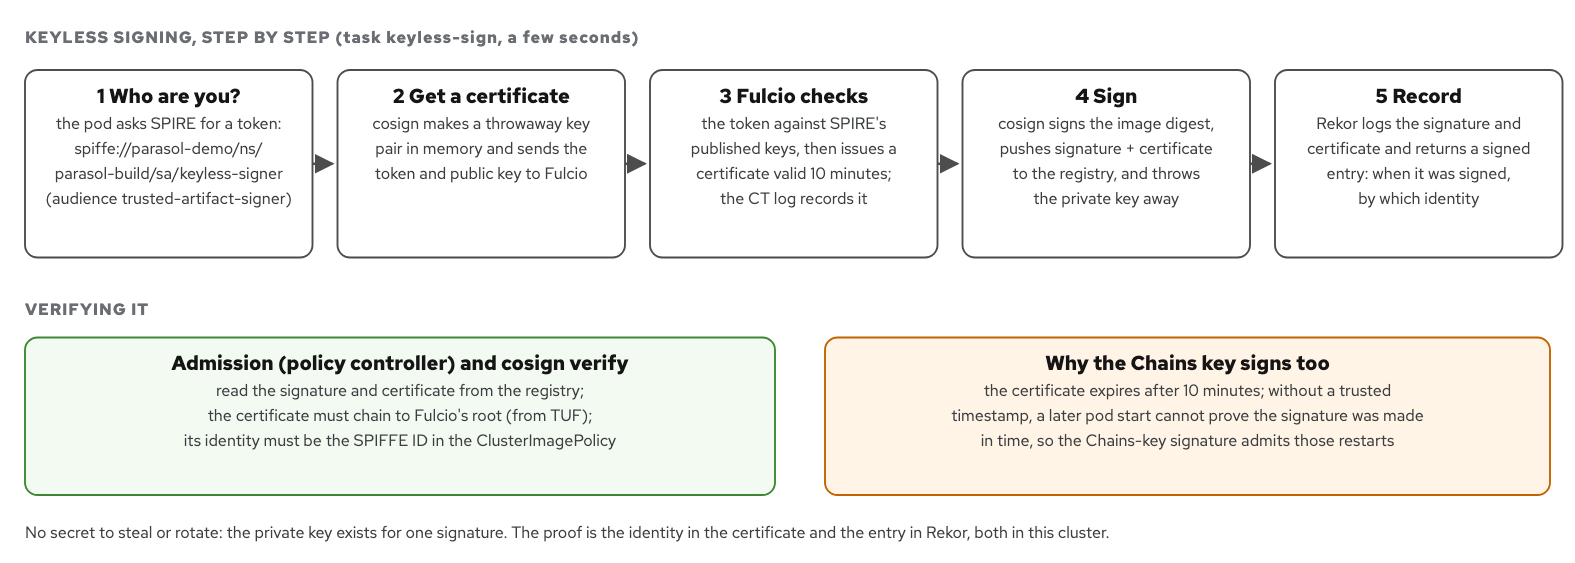
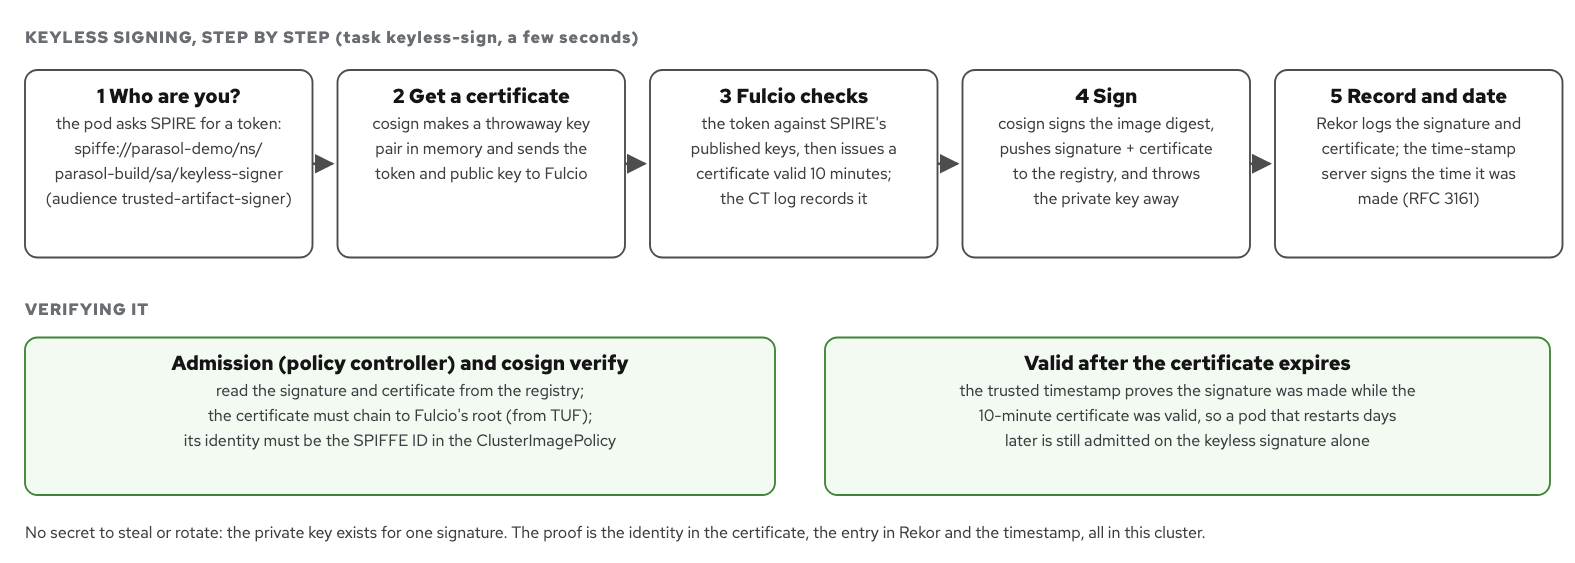
feat(supply-chain): portal admission accepts the timestamped keyless signature only

diff --git a/showroom/diagrams/s5-release-flow.html b/showroom/diagrams/s5-release-flow.html
@@ -20,4 +20,4 @@ svg text{font-family:inherit}
 <marker id="n" viewBox="0 0 10 10" refX="9" refY="5" markerWidth="8" markerHeight="8" orient="auto"><path d="M0,0 L10,5 L0,10 z" fill="#c9190b"/></marker>
 <marker id="y" viewBox="0 0 10 10" refX="9" refY="5" markerWidth="8" markerHeight="8" orient="auto"><path d="M0,0 L10,5 L0,10 z" fill="#3e8635"/></marker>
 </defs>
-<rect width="1400" height="580" fill="#fff"/><text class="lane" x="20" y="34" text-anchor="start">RELEASE PIPELINE  parasol-portal-secure-build  (OpenShift Pipelines, project parasol-build)</text><rect class="ext" x="20" y="170" width="130" height="120" rx="10"/><text class="t" x="85.0" y="196" text-anchor="middle">Git</text><text class="s" x="85.0" y="217" text-anchor="middle">portal source</text><text class="s" x="85.0" y="238" text-anchor="middle">system prompt</text><text class="s" x="85.0" y="259" text-anchor="middle">golden set</text><rect class="box" x="180" y="170" width="140" height="120" rx="10"/><text class="t" x="250.0" y="196" text-anchor="middle">Build</text><text class="s" x="250.0" y="217" text-anchor="middle">buildah, in the</text><text class="s" x="250.0" y="238" text-anchor="middle">cluster; image</text><text class="s" x="250.0" y="259" text-anchor="middle">by digest</text><rect class="box" x="355" y="60" width="250" height="92" rx="10"/><text class="t" x="480.0" y="86" text-anchor="middle">Scan + SBOM</text><text class="s" x="480.0" y="107" text-anchor="middle">Trivy: HIGH / CRITICAL</text><text class="s" x="480.0" y="128" text-anchor="middle">CycloneDX SBOM, attested</text><rect class="ctl" x="355" y="172" width="250" height="116" rx="10"/><text class="t" x="480.0" y="198" text-anchor="middle">Evaluation gate</text><text class="c" x="480.0" y="219" text-anchor="middle">MLflow GenAI, golden set</text><text class="s" x="480.0" y="240" text-anchor="middle">with the platform >= 0.95, and</text><text class="s" x="480.0" y="261" text-anchor="middle">the model alone loses no case</text><rect class="box" x="355" y="308" width="250" height="100" rx="10"/><text class="t" x="480.0" y="334" text-anchor="middle">Signed twice</text><text class="s" x="480.0" y="355" text-anchor="middle">Tekton Chains, its own key (outside)</text><text class="s" x="480.0" y="376" text-anchor="middle">keyless: Trusted Artifact Signer,</text><text class="s" x="480.0" y="397" text-anchor="middle">pipeline's SPIFFE identity, + SBOM</text><rect class="box" x="640" y="308" width="160" height="100" rx="10"/><text class="t" x="720.0" y="334" text-anchor="middle">Conforma</text><text class="s" x="720.0" y="355" text-anchor="middle">Chains signature,</text><text class="s" x="720.0" y="376" text-anchor="middle">SLSA provenance</text><text class="s" x="720.0" y="397" text-anchor="middle">from this pipeline</text><rect class="box" x="640" y="172" width="160" height="116" rx="10"/><text class="t" x="720.0" y="198" text-anchor="middle">Agent version</text><text class="s" x="720.0" y="219" text-anchor="middle">MLflow LoggedModel</text><text class="s" x="720.0" y="240" text-anchor="middle">parasol-claims-agent</text><text class="s" x="720.0" y="261" text-anchor="middle">1.x.0, every run</text><rect class="ctl" x="835" y="172" width="175" height="116" rx="10"/><text class="t" x="922.5" y="198" text-anchor="middle">Promote</text><text class="s" x="922.5" y="219" text-anchor="middle">digest + released</text><text class="s" x="922.5" y="240" text-anchor="middle">prompt pinned on</text><text class="c" x="922.5" y="261" text-anchor="middle">Argo CD env-secured</text><text class="s" x="922.5" y="282" text-anchor="middle">(no Git write)</text><rect class="box" x="1045" y="172" width="140" height="116" rx="10"/><text class="t" x="1115.0" y="198" text-anchor="middle">Argo CD</text><text class="s" x="1115.0" y="219" text-anchor="middle">syncs the</text><text class="s" x="1115.0" y="240" text-anchor="middle">pinned digest to</text><text class="s" x="1115.0" y="261" text-anchor="middle">parasol-secured</text><rect class="ctl" x="1220" y="172" width="160" height="116" rx="10"/><text class="t" x="1300.0" y="198" text-anchor="middle">Admission</text><text class="c" x="1300.0" y="219" text-anchor="middle">policy controller</text><text class="s" x="1300.0" y="240" text-anchor="middle">signature by the</text><text class="s" x="1300.0" y="261" text-anchor="middle">key or keyless</text><rect class="run" x="1220" y="330" width="160" height="80" rx="10"/><text class="t" x="1300.0" y="356" text-anchor="middle">Portal runs</text><text class="s" x="1300.0" y="377" text-anchor="middle">the exact digest</text><path class="arr" d="M150,230 L176,230"/><path class="arr" d="M320,215 L351,112"/><path class="arr" d="M320,230 L351,230"/><path class="arr" d="M320,245 L351,355"/><path class="arr" d="M605,358 L636,358"/><path class="arr" d="M605,230 L636,230"/><path class="arr" d="M800,230 L831,230"/><path class="arr" d="M720,308 L720,300 L900,300 L900,292"/><path class="arr" d="M605,106 L922,106 L922,168"/><path class="arr" d="M1010,230 L1041,230"/><path class="arr" d="M1185,230 L1216,230"/><path class="yes" d="M1300,288 L1300,326"/><rect class="bad" x="355" y="440" width="250" height="80" rx="10"/><text class="t" x="480.0" y="466" text-anchor="middle">Gate failed</text><text class="r" x="480.0" y="487" text-anchor="middle">promote skipped:</text><text class="s" x="480.0" y="508" text-anchor="middle">the old release keeps running</text><path class="no" d="M355,262 L338,262 L338,480 L351,480"/><rect class="bad" x="1020" y="440" width="360" height="80" rx="10"/><text class="t" x="1200.0" y="466" text-anchor="middle">Unsigned or tampered image</text><text class="r" x="1200.0" y="487" text-anchor="middle">refused at admission,</text><text class="s" x="1200.0" y="508" text-anchor="middle">whoever deploys it (kubectl, Argo, pipeline)</text><path class="no" d="M1240,288 C1180,360 1180,400 1200,436"/><text class="s" x="20" y="560" text-anchor="start">Every step is recorded: PipelineRun results, the MLflow run and agent version, the Argo CD annotations, the signatures next to the image.</text></svg></body></html>
+<rect width="1400" height="580" fill="#fff"/><text class="lane" x="20" y="34" text-anchor="start">RELEASE PIPELINE  parasol-portal-secure-build  (OpenShift Pipelines, project parasol-build)</text><rect class="ext" x="20" y="170" width="130" height="120" rx="10"/><text class="t" x="85.0" y="196" text-anchor="middle">Git</text><text class="s" x="85.0" y="217" text-anchor="middle">portal source</text><text class="s" x="85.0" y="238" text-anchor="middle">system prompt</text><text class="s" x="85.0" y="259" text-anchor="middle">golden set</text><rect class="box" x="180" y="170" width="140" height="120" rx="10"/><text class="t" x="250.0" y="196" text-anchor="middle">Build</text><text class="s" x="250.0" y="217" text-anchor="middle">buildah, in the</text><text class="s" x="250.0" y="238" text-anchor="middle">cluster; image</text><text class="s" x="250.0" y="259" text-anchor="middle">by digest</text><rect class="box" x="355" y="60" width="250" height="92" rx="10"/><text class="t" x="480.0" y="86" text-anchor="middle">Scan + SBOM</text><text class="s" x="480.0" y="107" text-anchor="middle">Trivy: HIGH / CRITICAL</text><text class="s" x="480.0" y="128" text-anchor="middle">CycloneDX SBOM, attested</text><rect class="ctl" x="355" y="172" width="250" height="116" rx="10"/><text class="t" x="480.0" y="198" text-anchor="middle">Evaluation gate</text><text class="c" x="480.0" y="219" text-anchor="middle">MLflow GenAI, golden set</text><text class="s" x="480.0" y="240" text-anchor="middle">with the platform >= 0.95, and</text><text class="s" x="480.0" y="261" text-anchor="middle">the model alone loses no case</text><rect class="box" x="355" y="308" width="250" height="100" rx="10"/><text class="t" x="480.0" y="334" text-anchor="middle">Signed twice</text><text class="s" x="480.0" y="355" text-anchor="middle">Tekton Chains, its own key (outside)</text><text class="s" x="480.0" y="376" text-anchor="middle">keyless: Trusted Artifact Signer,</text><text class="s" x="480.0" y="397" text-anchor="middle">pipeline's SPIFFE identity, + SBOM</text><rect class="box" x="640" y="308" width="160" height="100" rx="10"/><text class="t" x="720.0" y="334" text-anchor="middle">Conforma</text><text class="s" x="720.0" y="355" text-anchor="middle">Chains signature,</text><text class="s" x="720.0" y="376" text-anchor="middle">SLSA provenance</text><text class="s" x="720.0" y="397" text-anchor="middle">from this pipeline</text><rect class="box" x="640" y="172" width="160" height="116" rx="10"/><text class="t" x="720.0" y="198" text-anchor="middle">Agent version</text><text class="s" x="720.0" y="219" text-anchor="middle">MLflow LoggedModel</text><text class="s" x="720.0" y="240" text-anchor="middle">parasol-claims-agent</text><text class="s" x="720.0" y="261" text-anchor="middle">1.x.0, every run</text><rect class="ctl" x="835" y="172" width="175" height="116" rx="10"/><text class="t" x="922.5" y="198" text-anchor="middle">Promote</text><text class="s" x="922.5" y="219" text-anchor="middle">digest + released</text><text class="s" x="922.5" y="240" text-anchor="middle">prompt pinned on</text><text class="c" x="922.5" y="261" text-anchor="middle">Argo CD env-secured</text><text class="s" x="922.5" y="282" text-anchor="middle">(no Git write)</text><rect class="box" x="1045" y="172" width="140" height="116" rx="10"/><text class="t" x="1115.0" y="198" text-anchor="middle">Argo CD</text><text class="s" x="1115.0" y="219" text-anchor="middle">syncs the</text><text class="s" x="1115.0" y="240" text-anchor="middle">pinned digest to</text><text class="s" x="1115.0" y="261" text-anchor="middle">parasol-secured</text><rect class="ctl" x="1220" y="172" width="160" height="116" rx="10"/><text class="t" x="1300.0" y="198" text-anchor="middle">Admission</text><text class="c" x="1300.0" y="219" text-anchor="middle">policy controller</text><text class="s" x="1300.0" y="240" text-anchor="middle">keyless signature</text><text class="s" x="1300.0" y="261" text-anchor="middle">+ trusted timestamp</text><rect class="run" x="1220" y="330" width="160" height="80" rx="10"/><text class="t" x="1300.0" y="356" text-anchor="middle">Portal runs</text><text class="s" x="1300.0" y="377" text-anchor="middle">the exact digest</text><path class="arr" d="M150,230 L176,230"/><path class="arr" d="M320,215 L351,112"/><path class="arr" d="M320,230 L351,230"/><path class="arr" d="M320,245 L351,355"/><path class="arr" d="M605,358 L636,358"/><path class="arr" d="M605,230 L636,230"/><path class="arr" d="M800,230 L831,230"/><path class="arr" d="M720,308 L720,300 L900,300 L900,292"/><path class="arr" d="M605,106 L922,106 L922,168"/><path class="arr" d="M1010,230 L1041,230"/><path class="arr" d="M1185,230 L1216,230"/><path class="yes" d="M1300,288 L1300,326"/><rect class="bad" x="355" y="440" width="250" height="80" rx="10"/><text class="t" x="480.0" y="466" text-anchor="middle">Gate failed</text><text class="r" x="480.0" y="487" text-anchor="middle">promote skipped:</text><text class="s" x="480.0" y="508" text-anchor="middle">the old release keeps running</text><path class="no" d="M355,262 L338,262 L338,480 L351,480"/><rect class="bad" x="1020" y="440" width="360" height="80" rx="10"/><text class="t" x="1200.0" y="466" text-anchor="middle">Unsigned or tampered image</text><text class="r" x="1200.0" y="487" text-anchor="middle">refused at admission,</text><text class="s" x="1200.0" y="508" text-anchor="middle">whoever deploys it (kubectl, Argo, pipeline)</text><path class="no" d="M1240,288 C1180,360 1180,400 1200,436"/><text class="s" x="20" y="560" text-anchor="start">Every step is recorded: PipelineRun results, the MLflow run and agent version, the Argo CD annotations, the signatures next to the image.</text></svg></body></html>

diff --git a/showroom/diagrams/s5-signing-components.html b/showroom/diagrams/s5-signing-components.html
@@ -20,4 +20,4 @@ svg text{font-family:inherit}
 <marker id="n" viewBox="0 0 10 10" refX="9" refY="5" markerWidth="8" markerHeight="8" orient="auto"><path d="M0,0 L10,5 L0,10 z" fill="#c9190b"/></marker>
 <marker id="y" viewBox="0 0 10 10" refX="9" refY="5" markerWidth="8" markerHeight="8" orient="auto"><path d="M0,0 L10,5 L0,10 z" fill="#3e8635"/></marker>
 </defs>
-<rect width="1240" height="620" fill="#fff"/><text class="lane" x="20" y="34" text-anchor="start">WHO SIGNS</text><text class="lane" x="450" y="34" text-anchor="start">TRUSTED ARTIFACT SIGNER  (runs in this cluster)</text><text class="lane" x="900" y="34" text-anchor="start">WHO VERIFIES</text><rect class="ctl" x="44" y="52" width="356" height="126" rx="10"/><text class="t" x="222.0" y="78" text-anchor="middle">Tekton Chains</text><text class="c" x="222.0" y="99" text-anchor="middle">controller outside the pipeline (openshift-pipelines)</text><text class="s" x="222.0" y="119" text-anchor="middle">signs every image a TaskRun built,</text><text class="s" x="222.0" y="139" text-anchor="middle">and attests its SLSA provenance;</text><text class="s" x="222.0" y="159" text-anchor="middle">only Chains can read its key</text><rect class="box" x="44" y="214" width="356" height="106" rx="10"/><text class="t" x="222.0" y="240" text-anchor="middle">keyless-sign task</text><text class="s" x="222.0" y="261" text-anchor="middle">the pipeline's own identity, no stored key:</text><text class="s" x="222.0" y="281" text-anchor="middle">signs the image and its SBOM</text><text class="s" x="222.0" y="301" text-anchor="middle">(service account keyless-signer)</text><rect class="box" x="44" y="356" width="356" height="106" rx="10"/><text class="t" x="222.0" y="382" text-anchor="middle">SPIRE</text><text class="s" x="222.0" y="403" text-anchor="middle">Zero Trust Workload Identity Manager:</text><text class="s" x="222.0" y="423" text-anchor="middle">gives the pod a short-lived identity token</text><text class="s" x="222.0" y="443" text-anchor="middle">spiffe://parasol-demo/ns/parasol-build/sa/keyless-signer</text><rect class="box" x="450" y="52" width="400" height="86" rx="10"/><text class="t" x="650.0" y="78" text-anchor="middle">Fulcio</text><text class="s" x="650.0" y="99" text-anchor="middle">certificate authority: identity token in,</text><text class="s" x="650.0" y="119" text-anchor="middle">certificate valid 10 minutes out</text><rect class="box" x="450" y="268" width="400" height="86" rx="10"/><text class="t" x="650.0" y="294" text-anchor="middle">Rekor</text><text class="s" x="650.0" y="315" text-anchor="middle">transparency log: every keyless signature,</text><text class="s" x="650.0" y="335" text-anchor="middle">append-only, tamper-evident</text><rect class="box" x="450" y="160" width="400" height="86" rx="10"/><text class="t" x="650.0" y="186" text-anchor="middle">CT log</text><text class="s" x="650.0" y="207" text-anchor="middle">certificate transparency: every certificate</text><text class="s" x="650.0" y="227" text-anchor="middle">Fulcio issued</text><rect class="box" x="450" y="376" width="400" height="86" rx="10"/><text class="t" x="650.0" y="402" text-anchor="middle">TUF</text><text class="s" x="650.0" y="423" text-anchor="middle">hands out the trust roots (Fulcio, Rekor,</text><text class="s" x="650.0" y="443" text-anchor="middle">CT log keys) to signers and verifiers</text><rect class="ctl" x="900" y="52" width="320" height="146" rx="10"/><text class="t" x="1060.0" y="78" text-anchor="middle">Conforma</text><text class="c" x="1060.0" y="99" text-anchor="middle">task verify-enterprise-contract,</text><text class="s" x="1060.0" y="119" text-anchor="middle">before promote: Chains signature,</text><text class="s" x="1060.0" y="139" text-anchor="middle">provenance from this pipeline,</text><text class="s" x="1060.0" y="159" text-anchor="middle">image by digest; else no promote</text><rect class="ctl" x="900" y="236" width="320" height="146" rx="10"/><text class="t" x="1060.0" y="262" text-anchor="middle">Policy controller</text><text class="c" x="1060.0" y="283" text-anchor="middle">admission webhook, every pod in</text><text class="s" x="1060.0" y="303" text-anchor="middle">parasol-secured: keyless identity</text><text class="s" x="1060.0" y="323" text-anchor="middle">or Chains key (ClusterImagePolicy);</text><text class="s" x="1060.0" y="343" text-anchor="middle">else the pod is refused</text><rect class="run" x="20" y="506" width="1200" height="70" rx="10"/><text class="t" x="620.0" y="532" text-anchor="middle">Image registry</text><text class="s" x="620.0" y="553" text-anchor="middle">the image by digest, with its signatures (.sig) and attestations (.att: SLSA provenance, SBOM) stored next to it</text><path class="arr" d="M222,356 L222,324"/><text class="s" x="234" y="344" text-anchor="start">identity</text><path class="arr" d="M400,250 L446,104"/><path class="arr" d="M400,292 L446,308"/><path class="arr" d="M650,138 L650,156"/><path class="arr" d="M850,419 C880,419 880,330 896,320"/><path class="arr" d="M850,405 C890,380 870,160 896,140"/><path class="arr" d="M44,115 L28,115 L28,502"/><path class="arr" d="M400,306 L425,306 L425,502"/><path class="arr" d="M1060,502 L1060,386"/><path class="arr" d="M1180,502 L1180,202"/><text class="s" x="20" y="606" text-anchor="start">No stored key in the pipeline: Chains holds the only build key, and keyless signing uses a 10-minute certificate. Nothing calls the public Sigstore services.</text></svg></body></html>
+<rect width="1240" height="620" fill="#fff"/><text class="lane" x="20" y="34" text-anchor="start">WHO SIGNS</text><text class="lane" x="450" y="34" text-anchor="start">TRUSTED ARTIFACT SIGNER  (runs in this cluster)</text><text class="lane" x="900" y="34" text-anchor="start">WHO VERIFIES</text><rect class="ctl" x="44" y="52" width="356" height="126" rx="10"/><text class="t" x="222.0" y="78" text-anchor="middle">Tekton Chains</text><text class="c" x="222.0" y="99" text-anchor="middle">controller outside the pipeline (openshift-pipelines)</text><text class="s" x="222.0" y="119" text-anchor="middle">signs every image a TaskRun built,</text><text class="s" x="222.0" y="139" text-anchor="middle">and attests its SLSA provenance;</text><text class="s" x="222.0" y="159" text-anchor="middle">only Chains can read its key</text><rect class="box" x="44" y="214" width="356" height="106" rx="10"/><text class="t" x="222.0" y="240" text-anchor="middle">keyless-sign task</text><text class="s" x="222.0" y="261" text-anchor="middle">the pipeline's own identity, no stored key:</text><text class="s" x="222.0" y="281" text-anchor="middle">signs the image and its SBOM</text><text class="s" x="222.0" y="301" text-anchor="middle">(service account keyless-signer)</text><rect class="box" x="44" y="356" width="356" height="106" rx="10"/><text class="t" x="222.0" y="382" text-anchor="middle">SPIRE</text><text class="s" x="222.0" y="403" text-anchor="middle">Zero Trust Workload Identity Manager:</text><text class="s" x="222.0" y="423" text-anchor="middle">gives the pod a short-lived identity token</text><text class="s" x="222.0" y="443" text-anchor="middle">spiffe://parasol-demo/ns/parasol-build/sa/keyless-signer</text><rect class="box" x="450" y="52" width="400" height="86" rx="10"/><text class="t" x="650.0" y="78" text-anchor="middle">Fulcio</text><text class="s" x="650.0" y="99" text-anchor="middle">certificate authority: identity token in,</text><text class="s" x="650.0" y="119" text-anchor="middle">certificate valid 10 minutes out</text><rect class="box" x="450" y="268" width="400" height="86" rx="10"/><text class="t" x="650.0" y="294" text-anchor="middle">Rekor</text><text class="s" x="650.0" y="315" text-anchor="middle">transparency log: every keyless signature,</text><text class="s" x="650.0" y="335" text-anchor="middle">append-only, tamper-evident</text><rect class="box" x="450" y="160" width="400" height="86" rx="10"/><text class="t" x="650.0" y="186" text-anchor="middle">CT log</text><text class="s" x="650.0" y="207" text-anchor="middle">certificate transparency: every certificate</text><text class="s" x="650.0" y="227" text-anchor="middle">Fulcio issued</text><rect class="box" x="450" y="376" width="196" height="86" rx="10"/><text class="t" x="548.0" y="402" text-anchor="middle">Time-stamp</text><text class="s" x="548.0" y="423" text-anchor="middle">dates each keyless</text><text class="s" x="548.0" y="443" text-anchor="middle">signature (RFC 3161)</text><rect class="box" x="654" y="376" width="196" height="86" rx="10"/><text class="t" x="752.0" y="402" text-anchor="middle">TUF</text><text class="s" x="752.0" y="423" text-anchor="middle">trust roots for</text><text class="s" x="752.0" y="443" text-anchor="middle">signers and verifiers</text><rect class="ctl" x="900" y="52" width="320" height="146" rx="10"/><text class="t" x="1060.0" y="78" text-anchor="middle">Conforma</text><text class="c" x="1060.0" y="99" text-anchor="middle">task verify-enterprise-contract,</text><text class="s" x="1060.0" y="119" text-anchor="middle">before promote: Chains signature,</text><text class="s" x="1060.0" y="139" text-anchor="middle">provenance from this pipeline,</text><text class="s" x="1060.0" y="159" text-anchor="middle">image by digest; else no promote</text><rect class="ctl" x="900" y="236" width="320" height="146" rx="10"/><text class="t" x="1060.0" y="262" text-anchor="middle">Policy controller</text><text class="c" x="1060.0" y="283" text-anchor="middle">admission webhook, every pod in</text><text class="s" x="1060.0" y="303" text-anchor="middle">parasol-secured: keyless identity</text><text class="s" x="1060.0" y="323" text-anchor="middle">+ trusted timestamp (Cluster-</text><text class="s" x="1060.0" y="343" text-anchor="middle">ImagePolicy); else refused</text><rect class="run" x="20" y="506" width="1200" height="70" rx="10"/><text class="t" x="620.0" y="532" text-anchor="middle">Image registry</text><text class="s" x="620.0" y="553" text-anchor="middle">the image by digest, with its signatures (.sig) and attestations (.att: SLSA provenance, SBOM) stored next to it</text><path class="arr" d="M222,356 L222,324"/><text class="s" x="234" y="344" text-anchor="start">identity</text><path class="arr" d="M400,250 L446,104"/><path class="arr" d="M400,292 L446,308"/><path class="arr" d="M425,419 L446,419"/><path class="arr" d="M650,138 L650,156"/><path class="arr" d="M850,419 C880,419 880,330 896,320"/><path class="arr" d="M850,405 C890,380 870,160 896,140"/><path class="arr" d="M44,115 L28,115 L28,502"/><path class="arr" d="M400,306 L425,306 L425,502"/><path class="arr" d="M1060,502 L1060,386"/><path class="arr" d="M1180,502 L1180,202"/><text class="s" x="20" y="606" text-anchor="start">No stored key in the pipeline: Chains holds the only build key; keyless signing uses a 10-minute certificate and a trusted timestamp. Nothing calls the public Sigstore services.</text></svg></body></html>

diff --git a/showroom/diagrams/s5-keyless-flow.html b/showroom/diagrams/s5-keyless-flow.html
@@ -20,4 +20,4 @@ svg text{font-family:inherit}
 <marker id="n" viewBox="0 0 10 10" refX="9" refY="5" markerWidth="8" markerHeight="8" orient="auto"><path d="M0,0 L10,5 L0,10 z" fill="#c9190b"/></marker>
 <marker id="y" viewBox="0 0 10 10" refX="9" refY="5" markerWidth="8" markerHeight="8" orient="auto"><path d="M0,0 L10,5 L0,10 z" fill="#3e8635"/></marker>
 </defs>
-<rect width="1260" height="450" fill="#fff"/><text class="lane" x="20" y="34" text-anchor="start">KEYLESS SIGNING, STEP BY STEP  (task keyless-sign, a few seconds)</text><rect class="box" x="20" y="56" width="230" height="150" rx="10"/><text class="t" x="135.0" y="82" text-anchor="middle">1  Who are you?</text><text class="s" x="135.0" y="103" text-anchor="middle">the pod asks SPIRE for a token:</text><text class="s" x="135.0" y="123" text-anchor="middle">spiffe://parasol-demo/ns/</text><text class="s" x="135.0" y="143" text-anchor="middle">parasol-build/sa/keyless-signer</text><text class="s" x="135.0" y="163" text-anchor="middle">(audience trusted-artifact-signer)</text><rect class="box" x="270" y="56" width="230" height="150" rx="10"/><text class="t" x="385.0" y="82" text-anchor="middle">2  Get a certificate</text><text class="s" x="385.0" y="103" text-anchor="middle">cosign makes a throwaway key</text><text class="s" x="385.0" y="123" text-anchor="middle">pair in memory and sends the</text><text class="s" x="385.0" y="143" text-anchor="middle">token and public key to Fulcio</text><rect class="box" x="520" y="56" width="230" height="150" rx="10"/><text class="t" x="635.0" y="82" text-anchor="middle">3  Fulcio checks</text><text class="s" x="635.0" y="103" text-anchor="middle">the token against SPIRE's</text><text class="s" x="635.0" y="123" text-anchor="middle">published keys, then issues a</text><text class="s" x="635.0" y="143" text-anchor="middle">certificate valid 10 minutes;</text><text class="s" x="635.0" y="163" text-anchor="middle">the CT log records it</text><rect class="box" x="770" y="56" width="230" height="150" rx="10"/><text class="t" x="885.0" y="82" text-anchor="middle">4  Sign</text><text class="s" x="885.0" y="103" text-anchor="middle">cosign signs the image digest,</text><text class="s" x="885.0" y="123" text-anchor="middle">pushes signature + certificate</text><text class="s" x="885.0" y="143" text-anchor="middle">to the registry, and throws</text><text class="s" x="885.0" y="163" text-anchor="middle">the private key away</text><rect class="box" x="1020" y="56" width="230" height="150" rx="10"/><text class="t" x="1135.0" y="82" text-anchor="middle">5  Record</text><text class="s" x="1135.0" y="103" text-anchor="middle">Rekor logs the signature and</text><text class="s" x="1135.0" y="123" text-anchor="middle">certificate and returns a signed</text><text class="s" x="1135.0" y="143" text-anchor="middle">entry: when it was signed,</text><text class="s" x="1135.0" y="163" text-anchor="middle">by which identity</text><path class="arr" d="M250,131.0 L266,131.0"/><path class="arr" d="M500,131.0 L516,131.0"/><path class="arr" d="M750,131.0 L766,131.0"/><path class="arr" d="M1000,131.0 L1016,131.0"/><text class="lane" x="20" y="252" text-anchor="start">VERIFYING IT</text><rect class="ok" x="20" y="270" width="600" height="126" rx="10"/><text class="t" x="320.0" y="296" text-anchor="middle">Admission (policy controller) and cosign verify</text><text class="s" x="320.0" y="317" text-anchor="middle">read the signature and certificate from the registry;</text><text class="s" x="320.0" y="337" text-anchor="middle">the certificate must chain to Fulcio's root (from TUF);</text><text class="s" x="320.0" y="357" text-anchor="middle">its identity must be the SPIFFE ID in the ClusterImagePolicy</text><rect class="ctl" x="660" y="270" width="580" height="126" rx="10"/><text class="t" x="950.0" y="296" text-anchor="middle">Why the Chains key signs too</text><text class="s" x="950.0" y="317" text-anchor="middle">the certificate expires after 10 minutes; without a trusted</text><text class="s" x="950.0" y="337" text-anchor="middle">timestamp, a later pod start cannot prove the signature was made</text><text class="s" x="950.0" y="357" text-anchor="middle">in time, so the Chains-key signature admits those restarts</text><text class="s" x="20" y="430" text-anchor="start">No secret to steal or rotate: the private key exists for one signature. The proof is the identity in the certificate and the entry in Rekor, both in this cluster.</text></svg></body></html>
+<rect width="1260" height="450" fill="#fff"/><text class="lane" x="20" y="34" text-anchor="start">KEYLESS SIGNING, STEP BY STEP  (task keyless-sign, a few seconds)</text><rect class="box" x="20" y="56" width="230" height="150" rx="10"/><text class="t" x="135.0" y="82" text-anchor="middle">1  Who are you?</text><text class="s" x="135.0" y="103" text-anchor="middle">the pod asks SPIRE for a token:</text><text class="s" x="135.0" y="123" text-anchor="middle">spiffe://parasol-demo/ns/</text><text class="s" x="135.0" y="143" text-anchor="middle">parasol-build/sa/keyless-signer</text><text class="s" x="135.0" y="163" text-anchor="middle">(audience trusted-artifact-signer)</text><rect class="box" x="270" y="56" width="230" height="150" rx="10"/><text class="t" x="385.0" y="82" text-anchor="middle">2  Get a certificate</text><text class="s" x="385.0" y="103" text-anchor="middle">cosign makes a throwaway key</text><text class="s" x="385.0" y="123" text-anchor="middle">pair in memory and sends the</text><text class="s" x="385.0" y="143" text-anchor="middle">token and public key to Fulcio</text><rect class="box" x="520" y="56" width="230" height="150" rx="10"/><text class="t" x="635.0" y="82" text-anchor="middle">3  Fulcio checks</text><text class="s" x="635.0" y="103" text-anchor="middle">the token against SPIRE's</text><text class="s" x="635.0" y="123" text-anchor="middle">published keys, then issues a</text><text class="s" x="635.0" y="143" text-anchor="middle">certificate valid 10 minutes;</text><text class="s" x="635.0" y="163" text-anchor="middle">the CT log records it</text><rect class="box" x="770" y="56" width="230" height="150" rx="10"/><text class="t" x="885.0" y="82" text-anchor="middle">4  Sign</text><text class="s" x="885.0" y="103" text-anchor="middle">cosign signs the image digest,</text><text class="s" x="885.0" y="123" text-anchor="middle">pushes signature + certificate</text><text class="s" x="885.0" y="143" text-anchor="middle">to the registry, and throws</text><text class="s" x="885.0" y="163" text-anchor="middle">the private key away</text><rect class="box" x="1020" y="56" width="230" height="150" rx="10"/><text class="t" x="1135.0" y="82" text-anchor="middle">5  Record and date</text><text class="s" x="1135.0" y="103" text-anchor="middle">Rekor logs the signature and</text><text class="s" x="1135.0" y="123" text-anchor="middle">certificate; the time-stamp</text><text class="s" x="1135.0" y="143" text-anchor="middle">server signs the time it was</text><text class="s" x="1135.0" y="163" text-anchor="middle">made (RFC 3161)</text><path class="arr" d="M250,131.0 L266,131.0"/><path class="arr" d="M500,131.0 L516,131.0"/><path class="arr" d="M750,131.0 L766,131.0"/><path class="arr" d="M1000,131.0 L1016,131.0"/><text class="lane" x="20" y="252" text-anchor="start">VERIFYING IT</text><rect class="ok" x="20" y="270" width="600" height="126" rx="10"/><text class="t" x="320.0" y="296" text-anchor="middle">Admission (policy controller) and cosign verify</text><text class="s" x="320.0" y="317" text-anchor="middle">read the signature and certificate from the registry;</text><text class="s" x="320.0" y="337" text-anchor="middle">the certificate must chain to Fulcio's root (from TUF);</text><text class="s" x="320.0" y="357" text-anchor="middle">its identity must be the SPIFFE ID in the ClusterImagePolicy</text><rect class="ok" x="660" y="270" width="580" height="126" rx="10"/><text class="t" x="950.0" y="296" text-anchor="middle">Valid after the certificate expires</text><text class="s" x="950.0" y="317" text-anchor="middle">the trusted timestamp proves the signature was made while the</text><text class="s" x="950.0" y="337" text-anchor="middle">10-minute certificate was valid, so a pod that restarts days</text><text class="s" x="950.0" y="357" text-anchor="middle">later is still admitted on the keyless signature alone</text><text class="s" x="20" y="430" text-anchor="start">No secret to steal or rotate: the private key exists for one signature. The proof is the identity in the certificate, the entry in Rekor and the timestamp, all in this cluster.</text></svg></body></html>

diff --git a/gitops/platform/pipeline/README.md b/gitops/platform/pipeline/README.md
@@ -64,8 +64,8 @@ the portal at 0 replicas, so nothing is pulled or admitted before the first prom
 * Operators (RHTAS, policy-controller, SPIRE) are in `gitops/bootstrap/operators/supply-chain.yaml`;
   their operands, the cosign keypair and the admission policy are set up by `scripts/supply-chain.sh`.
 * `admission/` — the policy-controller webhook (`policycontroller.yaml`), the key-based
-  `clusterimagepolicy.yaml`, and `demo-unsigned-deploy.yaml`. The live policy trusts both the
-  keyless identity and the Tekton Chains key (`gitops/platform/tas/clusterimagepolicy-keyless.yaml`).
+  `clusterimagepolicy.yaml`, and `demo-unsigned-deploy.yaml`. The live policy trusts only the keyless identity, with
+  a trusted timestamp (`gitops/platform/tas/clusterimagepolicy-keyless.yaml`).
 * `onboarding/` — Showcase 7's vendor-image onboarding pipeline; it signs an approved vendor image with its own
   key (`parasol-build/parasol-onboarding-key`), which admission accepts for vendor images only.
 
@@ -83,9 +83,10 @@ Only Chains reads the private key; it never leaves `openshift-pipelines`. `cosig
 `parasol-build/cosign-pub` (used by `verify-enterprise-contract`) and embedded in the ClusterImagePolicy. The
 `keyless-sign` task adds the keyless signature and the SBOM attestation: the pod (SA `keyless-signer`, SPIFFE ID
 `spiffe://parasol-demo/ns/parasol-build/sa/keyless-signer`) fetches a JWT-SVID from SPIRE, exchanges it at Fulcio for
-a short-lived certificate, signs, and records the signature in Rekor (Trusted Artifact Signer, `gitops/platform/tas`).
-Admission accepts either authority; the keyed one stays because Fulcio certificates expire and no trusted timestamp
-is wired.
+a short-lived certificate, signs with an RFC 3161 timestamp from the Trusted Artifact Signer time-stamp server, and
+records the signature in Rekor (`gitops/platform/tas`). Admission accepts the keyless signature only: the timestamp
+proves it was made while the 10-minute certificate was valid, so a pod that restarts later is still admitted. The
+Chains signature and provenance are what Conforma checks before promote.
 
 Three keys, three meanings: the Chains key (this cluster built it), the keyless identity (this pipeline signed it),
 the onboarding key (Parasol checked and approved this vendor image).
@@ -93,7 +94,7 @@ the onboarding key (Parasol checked and approved this vendor image).
 ## Admission (parasol-secured)
 
 `ClusterImagePolicy parasol-portal-must-be-signed` requires a valid cosign signature from the
-keyless identity or the Tekton Chains key for any `…/parasol-build/parasol-portal**` image. The webhook enforces on namespaces
+keyless identity, with a trusted timestamp, for any `…/parasol-build/parasol-portal**` image. The webhook enforces on namespaces
 labelled `policy.rhtas.com/include=true`. `no-match-policy` is set to `allow` on
 `config-policy-controller` so the *other* (not-yet-signed) workloads in `parasol-secured` are
 untouched — only an unsigned **portal** is refused:
